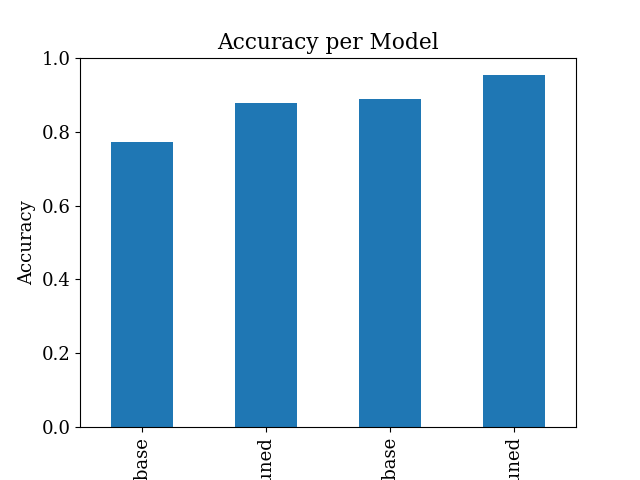
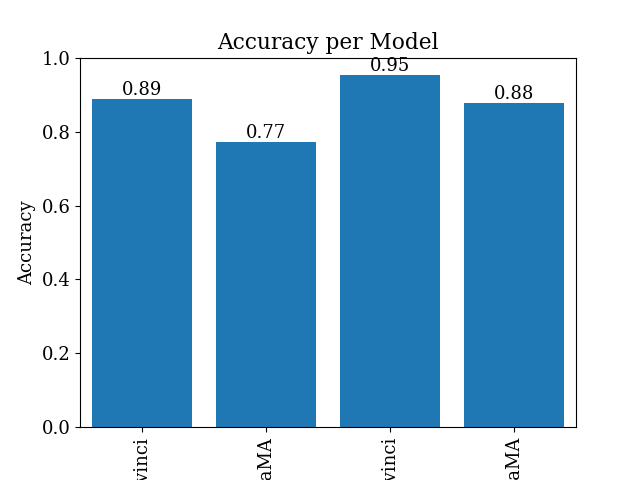
updated

diff --git a/eval-model-pt3/results/cap1to35/full-results-combining/bar-graph.py b/eval-model-pt3/results/cap1to35/full-results-combining/bar-graph.py
@@ -1,0 +1,134 @@
+import pandas as pd 
+import matplotlib.pyplot as plt
+import os
+from matplotlib.ticker import AutoLocator, MaxNLocator  # Add MaxNLocator to the import statement
+
+roman_to_decimal = {
+    'I': 1,
+    'II': 2,
+    'III': 3,
+    'IV': 4,
+    'V': 5,
+    'VI': 6,
+    'VII': 7,
+    'VIII': 8,
+    'IX': 9,
+    'X': 10,
+    'XI': 11,
+    'XII': 12,
+    'XIII': 13,
+    'XIV': 14,
+    'XV': 15,
+    'XVI': 16,
+    'XVII': 17,
+    'XVIII': 18,
+    'XIX': 19,
+    'XX': 20,
+    'XXI': 21,
+    'XXII': 22,
+    'XXIII': 23,
+    'XXIV': 24,
+    'XXV': 25,
+    'XXVI': 26,
+    'XXVII': 27,
+    'XXVIII': 28,
+    'XXIX': 29,
+    'XXX': 30,
+    'XXXI': 31,
+    'XXXII': 32,
+    'XXXIII': 33,
+    'XXXIV': 34,
+    'XXXV': 35
+}
+
+def create_pivot_table(df, index, columns, values): 
+    df = df.groupby([index, columns])[values].mean().reset_index() 
+    pivot_df = df.pivot(index=index, columns=columns, values=values)
+    return pivot_df
+# ...
+
+# iterate through all the files in results folder
+directory = 'full'
+data = []
+for filename in os.listdir(directory):
+    if filename.endswith(".raw.json"):
+        continue
+    filePath = os.path.join(directory, filename)
+    if os.path.isfile(filePath):
+        with open(filePath) as f:
+            rate = f.read()
+            try:
+                accuracy = float(rate)
+            except ValueError:
+                print(f"Could not convert {rate} to float. In file: " + filename + " Skipping..")
+                continue
+        chapter, quiz_type, model = filename.split(".")[0:3]  # Adjusted according to the new file name structure
+        data.append([model, chapter, quiz_type, accuracy])
+
+# making data frame
+df = pd.DataFrame(data, columns=["model", "chapter", "quiz_type", "accuracy"])
+df['chapter'] = df['chapter'].str.split('_').str[1].map(roman_to_decimal)
+print(df)
+
+# Set font style and size
+plt.rcParams['font.family'] = 'serif'
+plt.rcParams['font.size'] = 13
+
+
+# pivoting to make specific tables
+output_directory = "graphs/"
+# model chapter table
+# No 'shot' column, so we remove that filter
+filtered_df = df[df['model'].isin(['hugging13B', 'alltextbook', 'davinci', 'davinci:ft-personal:ch1to35-txt-2023-07-03-21-57-28'])] # Filter for specific models
+
+# renaming models
+model_name_mapping = {
+    'hugging13B': 'LLaMA',
+    'alltextbook': 'Latin-LLaMA',
+    'davinci': 'Davinci',
+    'davinci:ft-personal:ch1to35-txt-2023-07-03-21-57-28': 'Latin-Davinci'
+}
+filtered_df['model'] = filtered_df['model'].replace(model_name_mapping)
+
+
+pivot_df_model_chapter = create_pivot_table(filtered_df, 'model', 'chapter', 'accuracy')
+pivot_df_model_chapter.to_csv(output_directory + 'results-model-chapter.csv')
+
+# model chapter plot
+ax = pivot_df_model_chapter.T.plot(kind='line')
+ax.xaxis.set_major_locator(MaxNLocator(integer=True))
+ax.set(xlabel='Chapter', ylabel='Accuracy', title='Accuracy per model and chapter')
+
+# Move the legend to the bottom right corner
+plt.legend(title='Model', loc='lower right')
+
+# Save the figure
+plt.savefig(output_directory + 'model_chap.png')
+plt.close()
+
+
+# Group by model and calculate the mean accuracy
+model_accuracy = filtered_df.groupby('model')['accuracy'].mean()
+
+# Create a bar plot
+plt.bar(model_accuracy.index, model_accuracy.values)
+
+# Add exact numbers above the columns
+for i, v in enumerate(model_accuracy.values):
+    plt.annotate(str(round(v, 2)), (i, v), ha='center', va='bottom')
+
+# Set labels and title
+plt.xlabel('Model')
+plt.ylabel('Accuracy')
+
+# Save the figure or show it
+plt.savefig(output_directory + 'accuracy_bar_chart.png')
+plt.show()
+
+# Create bar graph
+model_accuracy.plot(kind='bar', xlabel='Model', ylabel='Accuracy', title='Accuracy per Model')
+plt.savefig(output_directory + 'model_accuracy.png')
+
+# Create bar chart for quiz type accuracy
+pivot_df_chapter_quiztype.plot(kind='bar', xlabel='Model', ylabel='Accuracy', title='Accuracy per Quiz Type')
+plt.savefig(output_directory + 'quiztype_accuracy.png')

diff --git a/eval-model-pt3/results/cap1to35/full-results-combining/evaltocsv-posterpaper-lines.py b/eval-model-pt3/results/cap1to35/full-results-combining/evaltocsv-posterpaper-lines.py
@@ -81,6 +81,9 @@ output_directory = "graphs/"
 # No 'shot' column, so we remove that filter
 filtered_df = df[df['model'].isin(['hugging13B', 'alltextbook', 'davinci', 'davinci:ft-personal:ch1to35-txt-2023-07-03-21-57-28'])] # Filter for specific models
 
+import matplotlib.pyplot as plt
+from matplotlib.ticker import MaxNLocator
+
 # renaming models
 model_name_mapping = {
     'hugging13B': 'LLaMA',
@@ -90,46 +93,33 @@ model_name_mapping = {
 }
 filtered_df['model'] = filtered_df['model'].replace(model_name_mapping)
 
-
 pivot_df_model_chapter = create_pivot_table(filtered_df, 'model', 'chapter', 'accuracy')
 pivot_df_model_chapter.to_csv(output_directory + 'results-model-chapter.csv')
 
-# model chapter plot
-ax = pivot_df_model_chapter.T.plot(kind='line')
-ax.xaxis.set_major_locator(MaxNLocator(integer=True))
-ax.set(xlabel='Chapter', ylabel='Accuracy', title='Accuracy per model and chapter')
+# Divide models into two groups
+models_group1 = ['LLaMA', 'Latin-LLaMA']
+models_group2 = ['Davinci', 'Latin-Davinci']
 
-# Move the legend to the bottom right corner
-plt.legend(title='Model', loc='lower right')
+# Create two subplots
+fig, (ax1, ax2) = plt.subplots(2, 1, figsize=(12, 6))
+
+# Plot models from group 1
+pivot_df_model_chapter.loc[models_group1].T.plot(kind='line', ax=ax1, color=['darkgreen', 'limegreen'])
+ax1.xaxis.set_major_locator(MaxNLocator(integer=True))
+ax1.set(xlabel='Chapter', ylabel='Accuracy', title='Accuracy per model and chapter (Group 1)')
+ax1.legend(title='Model', loc='lower right')
+ax1.set_xlim(1, 35)  # Set x-axis limits
+
+# Plot models from group 2
+pivot_df_model_chapter.loc[models_group2].T.plot(kind='line', ax=ax2, color=['darkblue', 'deepskyblue'])
+ax2.xaxis.set_major_locator(MaxNLocator(integer=True))
+ax2.set(xlabel='Chapter', ylabel='Accuracy', title='Accuracy per model and chapter (Group 2)')
+ax2.legend(title='Model', loc='lower right')
+ax2.set_xlim(1, 35)  # Set x-axis limits
+
+# Adjust spacing between subplots
+plt.subplots_adjust(hspace=0.4)
 
 # Save the figure
 plt.savefig(output_directory + 'model_chap.png')
 plt.close()
-
-
-# Group by model and calculate the mean accuracy
-model_accuracy = filtered_df.groupby('model')['accuracy'].mean()
-
-# Create a bar plot
-plt.bar(model_accuracy.index, model_accuracy.values)
-
-# Add exact numbers above the columns
-for i, v in enumerate(model_accuracy.values):
-    plt.annotate(str(round(v, 2)), (i, v), ha='center', va='bottom')
-
-# Set labels and title
-plt.xlabel('Model')
-plt.ylabel('Accuracy')
-plt.title('Mean Accuracy by Model')
-
-# Save the figure or show it
-plt.savefig(output_directory + 'accuracy_bar_chart.png')
-plt.show()
-
-# Create bar graph
-model_accuracy.plot(kind='bar', xlabel='Model', ylabel='Accuracy', title='Accuracy per Model')
-plt.savefig(output_directory + 'model_accuracy.png')
-
-# Create bar chart for quiz type accuracy
-pivot_df_chapter_quiztype.plot(kind='bar', xlabel='Model', ylabel='Accuracy', title='Accuracy per Quiz Type')
-plt.savefig(output_directory + 'quiztype_accuracy.png')
